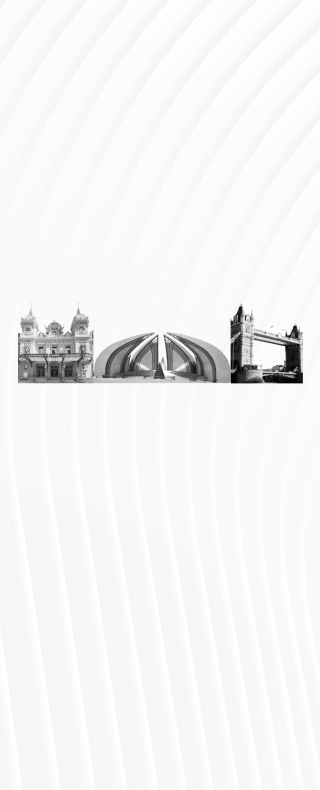
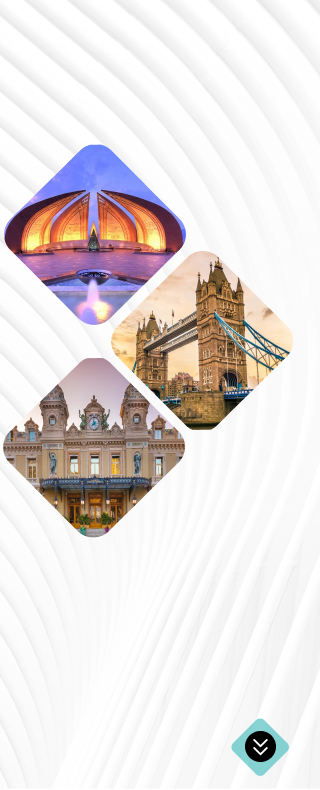
added changes

Changed region(s): [[0.0, 0.1823, 0.9688, 0.6987], [0.7188, 0.9114, 0.9062, 1.0]]

diff --git a/src/app/components/pagecomponents/homepagecomps/styles/mainpageherosection.css b/src/app/components/pagecomponents/homepagecomps/styles/mainpageherosection.css
@@ -8,8 +8,8 @@
   position: relative; /* For positioned child elements */
   display: flex; /* Flexbox for alignment */
   flex-direction: column; /* Stack content */
-  justify-content: flex-end;
-  align-items: flex-start;
+  justify-content: center;
+  align-items: center;
   z-index: 0; /* Ensure it appears below the header */
 }
 
@@ -34,12 +34,27 @@
   width: 100%;
 }
 
+.main-page-hero-button {
+  width: 191px;
+  height: 38px;
+  color: white;
+  background: #59c3c3;
+  display: flex;
+  flex-direction: column;
+  justify-content: center;
+  align-items: center;
+  border-radius: 8px;
+  margin-top: 1rem;
+}
+
 /* Default styles (mobile-first approach) */
 
 /* Small phones (<= 320px) */
 @media (max-width: 320px) {
   .main-page-hero-section {
     background-image: url("../../../../../../public/320p_herosection.png");
+    justify-content: flex-end;
+    align-items: flex-end;
   }
 
   .main-page-hero-content {
@@ -48,13 +63,13 @@
   }
 
   .main-page-hero-title {
-    font-size: 26px; /* Adjust for responsiveness */
+    font-size: 16px; /* Adjust for responsiveness */
     margin-bottom: 1rem;
     width: 100%;
   }
 
   .main-page-hero-paragraph {
-    font-size: 17px;
+    font-size: 12px;
     width: 100%;
   }
 }
@@ -62,7 +77,7 @@
 /* Standard small phones (<= 360px) */
 @media (max-width: 360px) {
   .main-page-hero-section {
-    background-image: url("../../../../../../public/320p_herosection.png");
+    background-image: url("../../../../../../public/360p_herosection.png");
   }
 
   .main-page-hero-content {
@@ -85,7 +100,9 @@
 /* Standard small phones (<= 360px) */
 @media (max-width: 375px) {
   .main-page-hero-section {
-    background-image: url("../../../../../../public/320p_herosection.png");
+    background-image: url("../../../../../../public/375p_herosection.png");
+    justify-content: flex-end;
+    align-items: flex-end;
   }
 
   .main-page-hero-content {
@@ -94,21 +111,22 @@
   }
 
   .main-page-hero-title {
-    font-size: 29px; /* Adjust for responsiveness */
+    font-size: 22px; /* Adjust for responsiveness */
     margin-bottom: 1rem;
     width: 100%;
   }
 
   .main-page-hero-paragraph {
-    font-size: 17px;
+    font-size: 12px;
     width: 100%;
+    /* display: none; */
   }
 }
 
 /* iPhone 14, 15 (standard model) */
 @media (min-width: 390px) {
   .main-page-hero-section {
-    background-image: url("../../../../../../public/320p_herosection.png");
+    background-image: url("../../../../../../public/390p_herosection.png");
   }
 
   .main-page-hero-content {
@@ -223,6 +241,25 @@
   .main-page-hero-paragraph {
     font-size: 1.25rem;
     width: 100%;
+  }
+}
+
+@media (min-width: 1920px) {
+  .main-page-hero-section {
+    justify-content: center;
+    align-items: flex-start;
+  }
+
+  .main-page-hero-content {
+    padding-left: 19rem;
+    padding-top: 2rem;
+    padding-bottom: 2rem;
+    padding-right: 2rem;
+    width: 67%;
+  }
+
+  .main-page-hero-title {
+    font-size: 3rem;
   }
 }
 

diff --git a/src/app/components/pagecomponents/homepagecomps/mainpageherosection.js b/src/app/components/pagecomponents/homepagecomps/mainpageherosection.js
@@ -3,12 +3,7 @@ import herodata from "./data/herosection.json";
 
 export default function MainPageHeroSection({ title, paragraph }) {
   return (
-    <div
-      className="main-page-hero-section"
-      // style={{
-      //   backgroundImage: `url('/main-hero.png')`,
-      // }}
-    >
+    <div className="main-page-hero-section">
       <div className="main-page-hero-content">
         <h1 className="main-page-hero-title font-roboto-serif text-extralight">
           {herodata.title}
@@ -16,6 +11,9 @@ export default function MainPageHeroSection({ title, paragraph }) {
         <p className="main-page-hero-paragraph font-inter text-extralight">
           {herodata.paragraph}
         </p>
+        <div className="main-page-hero-button font-inter">
+          Get Expert Advice
+        </div>
       </div>
     </div>
   );
